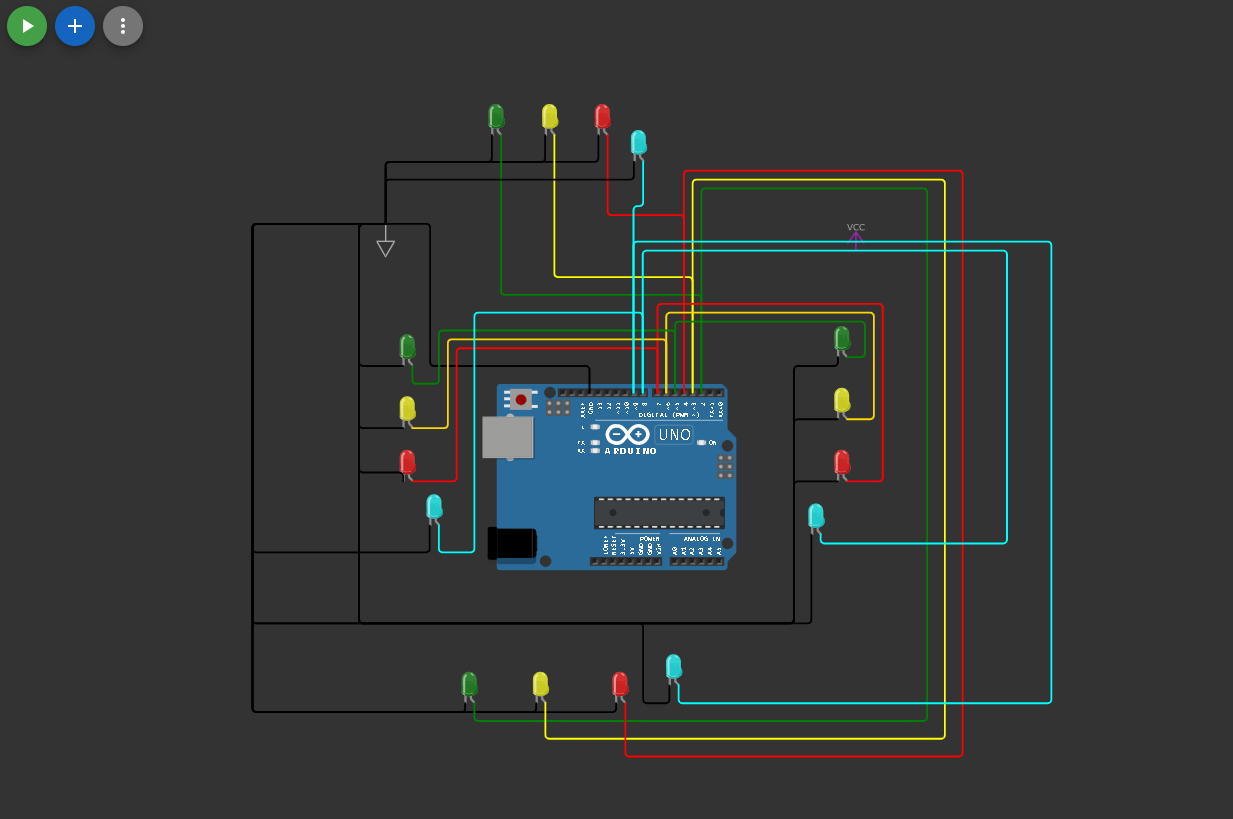
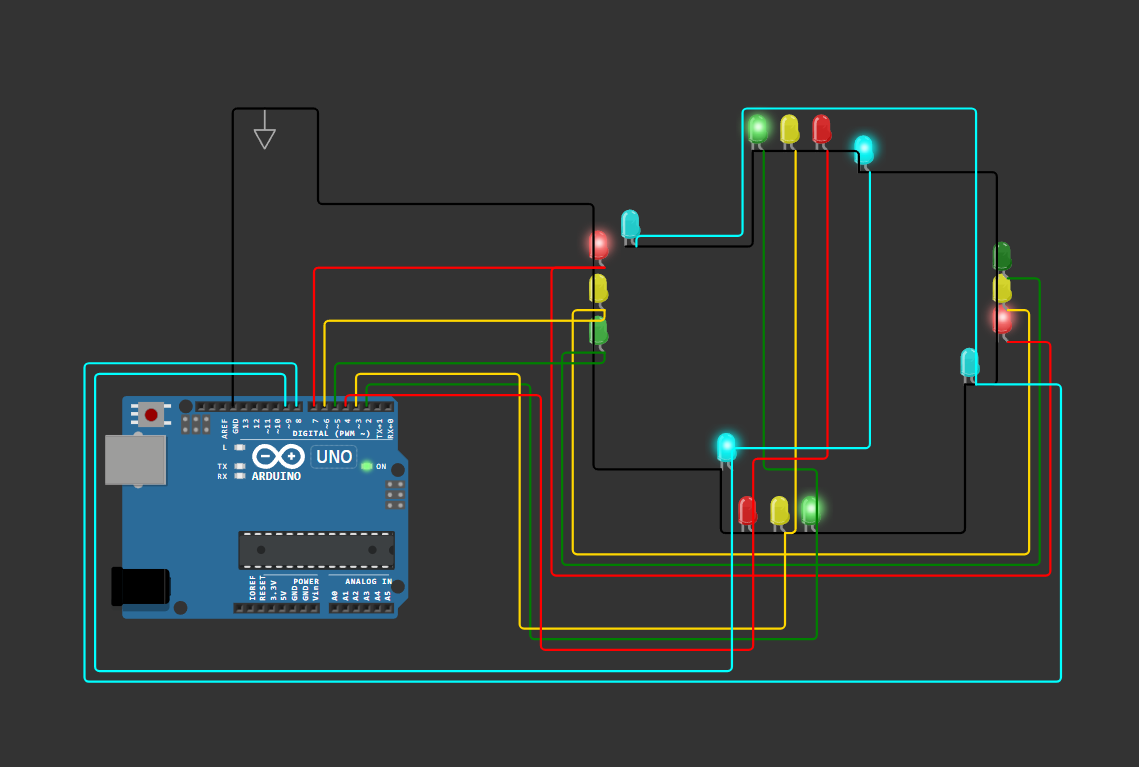
added new file for pot and updated image to go with traffic light

diff --git a/traffic_light_with_pot.cpp b/traffic_light_with_pot.cpp
@@ -1,0 +1,135 @@
+/************************ TrafficLights3 **********************
+
+Purpose:
+Emulates 2 sets of traffic lights at an intersection including green for go,
+yellow for clear intersection and red for stop.
+This is an example of a timing sequence (sequential program).
+
+Additional information:
+Utilizes the LEDs on the Mobile Modular board
+Red LEDs are at the top row (if not, have the instructor switch the cap colors)
+Connections:
+Light       Arduino pin     Terminal Block
+NSgreen      pin 2            #46
+NSyellow     pin 3            #42
+NSred        pin 4            #38
+EWgreen      pin 5            #49
+EWyellow     pin 6            #45
+EWred        pin 7            #41
+             Ground           Ground
+
+Created on July 7, 2020
+ By Ron Ropson
+ */
+
+const byte NSgreen = 2; // naming the pins with familiar names makes programming easier
+const byte NSyellow = 3;
+const byte NSred = 4;
+const byte EWgreen = 5;  // we could use longer names like NorthSouthGreen55thStreet25 too!
+const byte EWyellow = 6; // but it would be too much typing.
+const byte EWred = 7;
+const byte NSwalk = 9;
+const byte EWwalk = 8;
+
+void setup()
+{
+  for (byte a = 2; a < 10; a++) // another cool programming tool to make pins 2-7 outputs all at once
+  {
+    pinMode(a, OUTPUT);
+  }
+  // Setup initial conditions
+  digitalWrite(NSgreen, LOW);   // When the lights are first on, we can't have them all lit
+  digitalWrite(NSyellow, HIGH); // nor can we have them all off. we could start with red, though!
+  digitalWrite(NSred, LOW);
+  digitalWrite(EWgreen, LOW);
+  digitalWrite(EWyellow, LOW);
+  digitalWrite(EWred, HIGH);
+  digitalWrite(NSwalk, LOW);
+  digitalWrite(EWwalk, LOW);
+  flashLights(5); // This is something new: a call to a function.
+                  // the number 5 is passed onto the function so
+                  // it knows how many times to blink
+}
+
+void loop()
+{
+  allRed();             // function call to make sure both sets are red before starting
+  northSouthSequence(); // perform the NS sequence green, then yellow, then red
+  allRed();
+  eastWestSequence(); // perform the EW sequence green, then yellow, then red
+}
+
+/*
+ * flashinglights(int)
+ * This function flashes the NS yellow lights
+ * and flashes the EW red lights
+ */
+
+void flashLights(int times) // this is the function flashinglights.
+                            // It blinks the lights the specified number of times then returns
+{
+  for (int a = 0; a < times; a++)
+  {
+    delay(500);
+    digitalWrite(NSyellow, LOW);
+    digitalWrite(EWred, LOW);
+    delay(500);
+    digitalWrite(NSyellow, HIGH);
+    digitalWrite(EWred, HIGH);
+  }
+}
+
+/*
+ * allRed()
+ * This function turns both the NS and EW lights red
+ * It also makes sure all the others are off
+ * It simplifies programming sequence and is safe
+ * if the program freezes
+ * It us used before any green light turns on
+ * so there is no confusion
+ */
+
+void allRed()
+{
+  digitalWrite(NSgreen, LOW);
+  digitalWrite(NSyellow, LOW);
+  digitalWrite(NSred, HIGH);
+  digitalWrite(EWgreen, LOW);
+  digitalWrite(EWyellow, LOW);
+  digitalWrite(EWred, HIGH);
+  delay(250); // so it's not instant from red on one street to green on the other
+}
+
+// turn the NS light from green to yellow to red
+void northSouthSequence()
+{
+  digitalWrite(NSred, LOW); // turn off red first
+  digitalWrite(NSgreen, HIGH);
+  digitalWrite(NSwalk, HIGH);
+  delay(2000);
+  digitalWrite(NSwalk, LOW);
+  delay(2000);
+  digitalWrite(NSgreen, LOW);   // make sure it's turned off first!
+  digitalWrite(NSyellow, HIGH); // switch to yellow
+  delay(2000);                  // for two seconds
+  digitalWrite(NSyellow, LOW);  // important! even though it takes only a few microseconds to
+  digitalWrite(NSred, HIGH);    // complete this task, the order is  vital, because if the
+  // microcontroller freezes up, we don't want confusing signals,
+}
+
+// turn the EW light from green to yellow to red
+void eastWestSequence()
+{
+  digitalWrite(EWred, LOW); // turn off red first
+  digitalWrite(EWgreen, HIGH);
+  digitalWrite(EWwalk, HIGH);
+  delay(2000);
+  digitalWrite(EWwalk, LOW);
+  delay(2000);
+  digitalWrite(EWgreen, LOW);   // make sure it's turned off first!
+  digitalWrite(EWyellow, HIGH); // switch to yellow
+  delay(2000);                  // for two seconds
+  digitalWrite(EWyellow, LOW);  // important! even though it takes only a few microseconds to
+  digitalWrite(EWred, HIGH);    // complete this task, the order is  vital, because if the
+  // microcontroller freezes up, we don't want confusing signals,
+}
